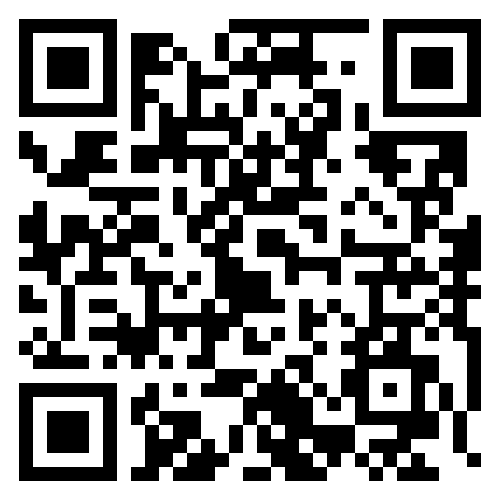
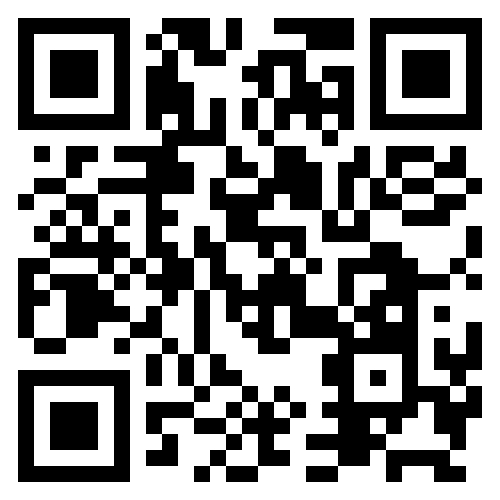
update qr code

diff --git a/src/components/Warning.jsx b/src/components/Warning.jsx
@@ -22,7 +22,7 @@ const Warning = () => {
             alt="QR code to open the app on your phone"
             className="w-[30%] max-w-40 mx-auto"
           />
-          <p className="text-center mt-2 text-blue-400">www.buytheway.com</p>
+          <p className="text-center mt-2 text-blue-400">btw.barisbalci.de</p>
         </div>
 
         <p>
